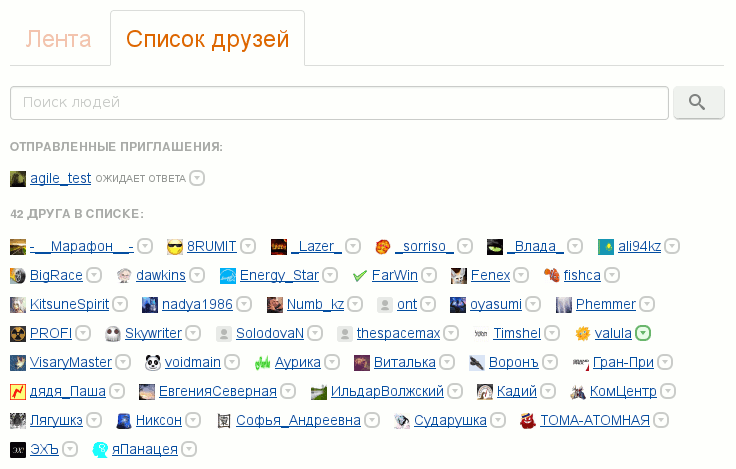
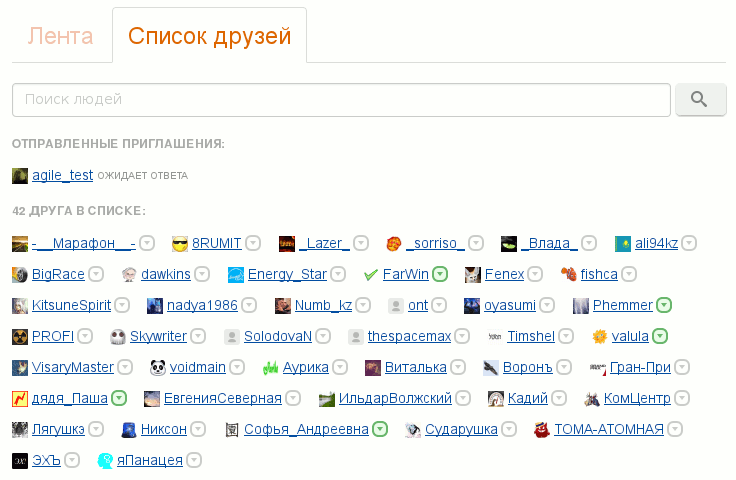
(m) Changes in the KG_InlineFriendsList script
- Fixed several issues manifested in the CoolNovo browser
- Added hiding of the dropdown button for the awaiting friend requests
- Fixed "accept" and "decline" buttons order
- Reduced size of the dropdown button

diff --git a/scripts/KG_InlineFriendsList.user.js b/scripts/KG_InlineFriendsList.user.js
@@ -4,7 +4,7 @@
 // @include        http://klavogonki.ru/u/*
 // @author         agile
 // @description    Изменяет вид списка друзей, делая последний более компактным
-// @version        1.0.0
+// @version        1.0.2
 // @icon           http://www.gravatar.com/avatar/8e1ba53166d4e473f747b56152fa9f1d?s=48
 // ==/UserScript==
 
@@ -58,22 +58,36 @@ window.addEventListener( 'load', function() {
             'color': '#b20 !important',
         },
         '.profile-friends .friends-content .friends-list .list ul.users > li div.actions': {
-            'position': 'relative',
-            'float': 'right',
-            'top': '2px',
-            'left': '3px',
+            'position': 'static',
             'width': 'auto',
+            'margin-top': '2px',
+            'margin-left': '-1px',
         }, 
+        '.profile-friends .friends-content .friends-list .ng-scope .list ul.users > li div.actions': {
+            'display': 'none',
+        },
         '.profile-friends .friends-content .friends-list .list ul.users > li .await': {
             'position': 'static',
             'display': 'inline',
             'vertical-align': 'middle',
             'float': 'none !important',
         },
+        '.profile-friends .friends-content .friends-list .list ul.users > li .await + span': {
+            'display': 'inline-block',
+            'vertical-align': 'middle',
+        },
+        '.profile-friends .friends-content .friends-list .list ul.users > li .await + span:before': {
+            'display': 'table',
+            'content': ' ',
+        },
+        '.profile-friends .friends-content .friends-list .list ul.users > li .await + span:after': {
+            'display': 'table',
+            'clear': 'both',
+            'content': ' ',
+        },
         '.profile-friends .friends-content .friends-list .list ul.users > li .btn': {
             'position': 'static',
-            'float': 'none !important',
-            'margin': '0 2px',
+            'margin': '0 0 0 6px',
             'padding': '2px 6px',
         },
         '.profile-friends .friends-content .friends-list .list ul.users > li div.actions > .dropdown-toggle': {
@@ -86,12 +100,6 @@ window.addEventListener( 'load', function() {
         },
         '.profile-friends .friends-content .friends-list .list ul.users > li div.actions > .dropdown-toggle:hover > .caret': {
             'border-width': '4px 3.8px 0 3.8px !important',
-        },
-        '.profile-friends .friends-content .friends-list .list ul.users > li .online': {
-            'display': 'none',
-        },
-        '.profile-friends .friends-content .friends-list .list ul.users > li .online': {
-            'display': 'none',
         },
         '.profile-friends .friends-content .friends-list .list ul.users > li .online': {
             'display': 'none',
